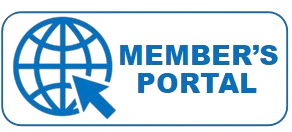
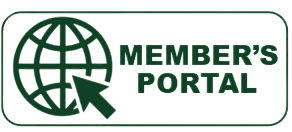
Changes to navbar images and hovers

Changed region(s): [[0.0, 0.0606, 0.9863, 0.9697], [0.4623, 0.5455, 0.8938, 0.7273]]

diff --git a/src/components/navbar.js b/src/components/navbar.js
@@ -4,6 +4,8 @@ import { Flex, NavLink, Box } from 'theme-ui';
 import React, { useState } from 'react';
 import { createPortal } from 'react-dom';
 import logo from '../images/logo.png'; // Adjust path if needed
+import logo_hover from '../images/logo_hover.png'; // Adjust path if needed
+
 import member_portal from '../images/member_portal.png'
 
 const Portal = ({ children }) => {
@@ -175,17 +177,32 @@ const Navbar = () => {
     >
       {/* Left: Logo */}
       <Box sx={{ flex: '0 0 auto' }}>
-        <NavLink as={Link} to="/" sx={{ color: 'logo', textDecoration: 'none', fontWeight: 'bold' }}>
-          <img
-            src={logo}
-            alt="Logo"
-            sx={{
-              width: '12vmin',
-              height: 'auto',
-              borderRadius: '2vmin',
-            }}
-          />
-        </NavLink>
+      <NavLink
+      as={Link}
+      to="/"
+      sx={{
+        color: "logo",
+        textDecoration: "none",
+        fontWeight: "bold",
+        display: "inline-block",
+      }}
+    >
+      <img
+        src={logo}
+        alt="Logo"
+        sx={{
+          width: "12vmin",
+          height: "auto",
+          borderRadius: "2vmin",
+          filter: "grayscale(100%) brightness(0%)", // Make it black initially
+          transition: "filter 0.3s ease",
+          "&:hover": {
+            filter:
+              "invert(59%) sepia(99%) saturate(475%) hue-rotate(3deg) brightness(103%) contrast(101%)",
+          },
+        }}
+      />
+    </NavLink>
       </Box>
 
       {/* Center: Nav Links and Dropdowns */}
@@ -300,17 +317,34 @@ const Navbar = () => {
 
       {/* Right: Optional placeholder for balance (or additional icons) */}
       <Box sx={{ flex: '0 0 auto' }}>
-        <a href='https://www.icompetenatural.com/' target='_blank' rel='noopener noreferrer' sx={{ color: 'logo', textDecoration: 'none', fontWeight: 'bold' }}>
-          <img
-            src={member_portal}
-            alt="Member's Portal"
-            sx={{
-              width: '17vmin',
-              height: 'auto',
-              borderRadius: '2vmin',
-            }}
-          />
-        </a>
+      <a
+  href="https://www.icompetenatural.com/"
+  target="_blank"
+  rel="noopener noreferrer"
+  sx={{
+    color: "logo",
+    textDecoration: "none",
+    fontWeight: "bold",
+    display: "inline-block",
+  }}
+>
+  <img
+    src={member_portal}
+    alt="Member's Portal"
+    sx={{
+      width: "17vmin",
+      height: "auto",
+      borderRadius: "2vmin",
+      filter: "grayscale(100%) brightness(0%)", // Make it black initially
+      transition: "filter 0.3s ease",
+      "&:hover": {
+        filter:
+          "invert(59%) sepia(99%) saturate(475%) hue-rotate(3deg) brightness(103%) contrast(101%)",
+      },
+    }}
+  />
+</a>
+
       </Box>
     </Flex>
   );
